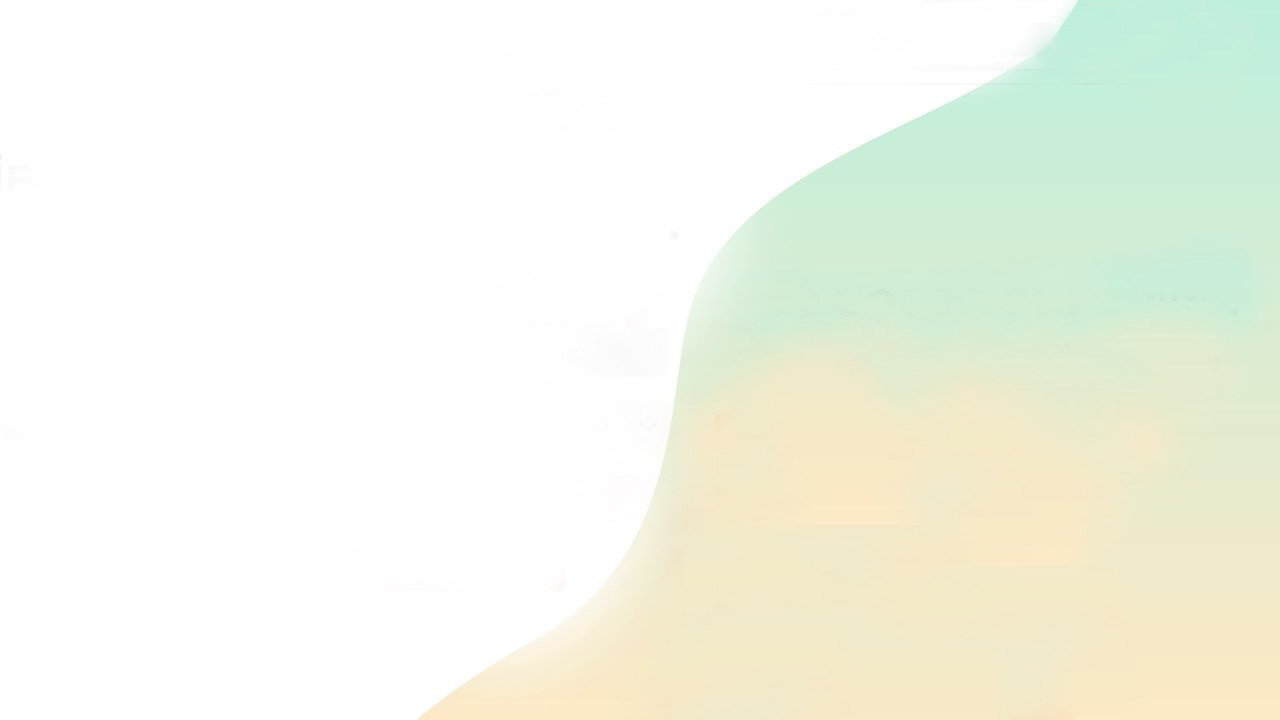
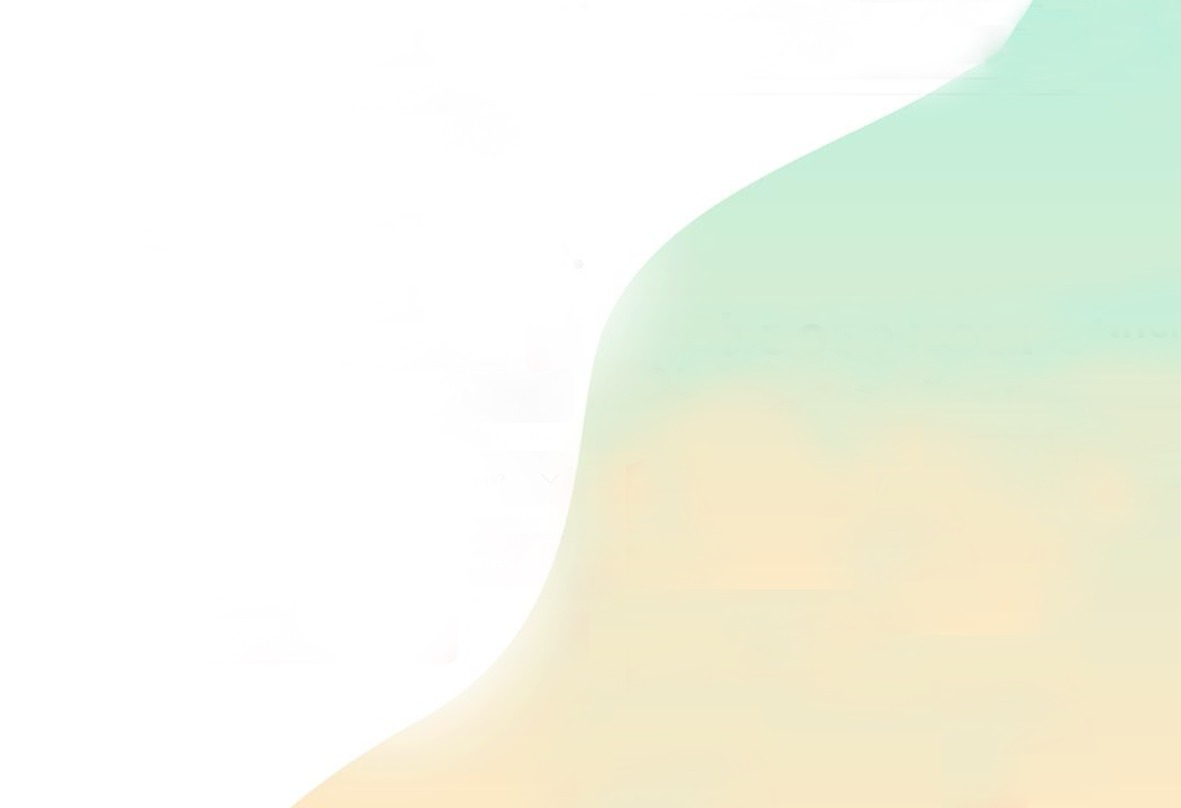
Task

Changed region(s): [[0.2439, 0.2139, 0.6706, 1.0], [0.7316, 0.0, 0.884, 0.1528]]

diff --git a/css/mediaQuery.css b/css/mediaQuery.css
@@ -59,6 +59,13 @@
     }
 }
 @media(min-width:768px) and (max-width:991px){
+    body{
+        background:url(../images/smheader.jpeg) no-repeat;
+        -webkit-background-size: cover;
+        -moz-background-size: cover;
+        -o-background-size: cover;
+        background-size: cover;
+    }
     .navbar .navbar-brand{
         font-size: 34px;
     }
@@ -66,30 +73,28 @@
         margin-left: 0;
     }
     .header{
-        font-size: 24px;
+        font-size: 22px;
         margin-bottom: 0;
     }
     .header2{
         font-size: 24px;
     }
-    section form{
+    /* section form{
         width: 100%;
-    }
+    } */
 
     .right .right_title{
         font-size: 22px;
     }
     .right .right_title2{
-       position: relative;
-       left: 40%;
        font-size: 21px;
     }
+    
     .right img {
-        min-height: 250px;
+        min-height: 300px;
         width: 70%;
     }
     .btn_home{
-        font-size: 21px;
         border-radius: 18px;
     }
     section form input,section form select {
@@ -121,7 +126,7 @@
     }
 }
 
-@media (min-width:1200px) and (max-width:1300px)
+@media (min-width:1200px) and (max-width768px)
 {
 
     .right .right_title2{
@@ -129,7 +134,12 @@
     
     }
 }
-@media (min-width: 468px)
+/* @media(min-width:768px){
+    .container{
+        max-width: 640px;
+    }
+} */
+@media (min-width: 1200px)
 {
     .container {
         max-width: 1300px;

diff --git a/css/style.css b/css/style.css
@@ -6,13 +6,13 @@
     margin: 0;
     padding: 0;
 }
-body{
+/* body{
     background: url(../images/header.jpeg) no-repeat;
     -webkit-background-size:contain;
     -moz-background-size: contain;
     -o-background-size: contain;
     background-size: contain;
-}
+} */
 
 /* Start Navbar */
 .navbar{
@@ -136,7 +136,7 @@ section form input,section form select {
 }
 .right img{
     width: 66%;
-    min-height: 600px;
+    min-height: 500px;
 }
 .right .right_title{
     margin-left: 34px;
